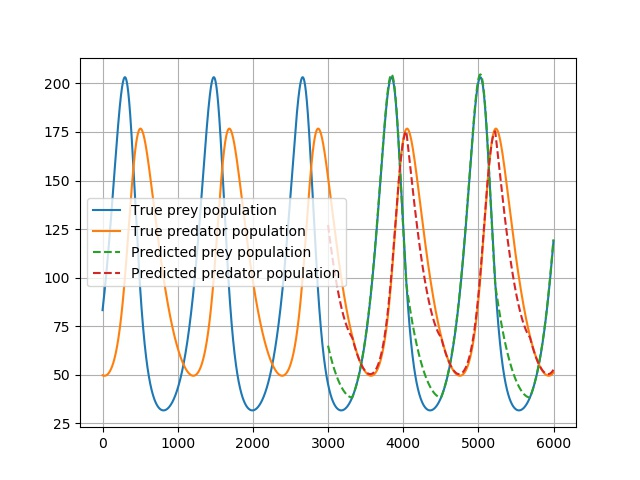
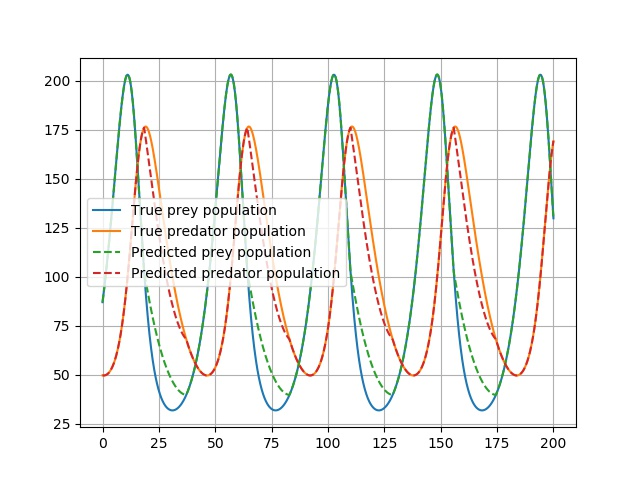
dummy commit

diff --git a/TCN/prey_pred_model/prey_pred_sequence_randInit_denseNN.py b/TCN/prey_pred_model/prey_pred_sequence_randInit_denseNN.py
@@ -145,8 +145,9 @@ plt.savefig('rand_init_denseNN/prey_pred_losses_randInit.jpg')
 # data = (x,y)
 # X_test = X[training_examples:,:,:]
 # without dt
-data = prey_pred_data_constinit(total_examples, seq_length, N=6200)
-X_test = torch.from_numpy(data[0][training_examples:,:,:]).float()
+total_examples = 2500
+data = prey_pred_data_constinit(total_examples, seq_length, N=3000)
+X_test = torch.from_numpy(data[0]).float()
 if args.cuda:
     X_test = X_test.cuda()
 model.eval()
@@ -155,11 +156,14 @@ model.eval()
 # without dt
 output = model(X_test, seq_length )
 
+#time grid
+t = np.linspace(0.0,200.0,total_examples)
+
 plt.figure()
-plt.plot(range(total_examples),data[1][:,0])
-plt.plot(range(total_examples),data[1][:,1])
-plt.plot(range(training_examples,total_examples),output[:,0].cpu().detach().numpy(), '--')
-plt.plot(range(training_examples,total_examples),output[:,1].cpu().detach().numpy(), '--')
+plt.plot(t,data[1][:,0])
+plt.plot(t,data[1][:,1])
+plt.plot(t,output[:,0].cpu().detach().numpy(), '--')
+plt.plot(t,output[:,1].cpu().detach().numpy(), '--')
 plt.grid(True)
 plt.legend(['True prey population', 'True predator population', 'Predicted prey population', 'Predicted predator population'] ,loc='center left')
 plt.savefig('rand_init_denseNN/prey_pred_prediction_vizualization_randInit.jpg')
